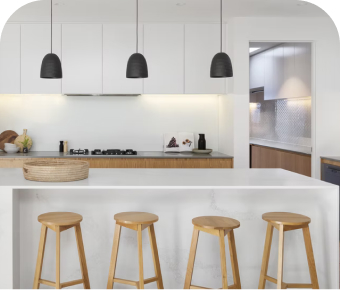
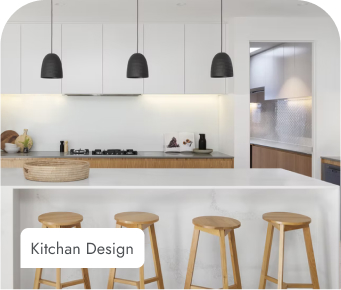
homework 2 finished

diff --git a/homework/project/script.js b/homework/project/script.js
@@ -2,42 +2,42 @@ new Vue({
     el: "#app",
     data: {
         articles: [{
+                isDark: false,
                 url: "img/article1.jpg",
-                alt: 'Kitchen',
-                desc: 'Kitchan Design',
+                alt: 'Kitchan Design',
                 subheading: 'Let’s Get Solution For Building Construction Work',
                 date: '26 December,2022',
             },
             {
+                isDark: true,
                 url: "img/article2.jpg",
-                alt: 'Flat',
-                desc: 'Living Design',
+                alt: 'Living Design',
                 subheading: `Low Cost Latest Invented Interior Designing Ideas.`,
                 date: '22 December,2022',
             }, {
+                isDark: false,
                 url: "img/article3.jpg",
-                alt: 'KiInteriortchen',
-                desc: 'Interior Design',
+                alt: 'Interior Design',
                 subheading: 'Best For Any Office &Business Interior Solution',
                 date: '25 December,2022',
             }, {
-                url: "img/article1.jpg",
-                alt: 'Kitchen',
-                desc: 'Kitchan Design',
+                isDark: false,
+                url: "img/article4.jpg",
+                alt: 'Kitchan Design',
                 subheading: 'Let’s Get Solution For Building Construction Work',
                 date: '26 December,2022',
             }, {
-                url: "img/article1.jpg",
-                alt: 'Kitchen',
-                desc: 'Kitchan Design',
-                subheading: 'Let’s Get Solution For Building Construction Work',
-                date: '26 December,2022',
+                isDark: false,
+                url: "img/article5.jpg",
+                alt: 'Living Design',
+                subheading: 'Low Cost Latest Invented Interior Designing Ideas.',
+                date: '22 December,2022',
             }, {
-                url: "img/article1.jpg",
-                alt: 'Kitchen',
-                desc: 'Kitchan Design',
-                subheading: 'Let’s Get Solution For Building Construction Work',
-                date: '26 December,2022',
+                isDark: false,
+                url: "img/article6.jpg",
+                alt: 'Interior Design',
+                subheading: 'Best For Any Office & Business Interior Solution',
+                date: '25 December,2022',
             }
         ]
     },

diff --git a/homework/project/index.html b/homework/project/index.html
@@ -129,7 +129,6 @@
             <div class="articles__wrapper">
                 <div class="article">
                     <img src="img/article1.jpg" alt="Kitchan" class="img__article">
-                    <p class="desc__article">Kitchan Design</p>
                     <h3 class="subheading subheading__article">Let’s Get Solution For<br>Building Construction<br>Work
                     </h3>
                     <div class="article__wrapper">
@@ -141,7 +140,6 @@
                 </div>
                 <div class="article  article_dark">
                     <img src="img/article2.jpg" alt="Flat" class="img__article">
-                    <p class="desc__article">Living Design</p>
                     <h3 class="subheading subheading__article">Low Cost Latest Invented<br>Interior Designing<br>Ideas.
                     </h3>
                     <div class="article__wrapper">
@@ -157,7 +155,6 @@
                 </div>
                 <div class="article">
                     <img src="img/article3.jpg" alt="Interior" class="img__article">
-                    <p class="desc__article">Interior Design</p>
                     <h3 class="subheading subheading__article">Best For Any Office &<br>Business Interior<br>Solution
                     </h3>
                     <div class="article__wrapper">

diff --git a/homework/project/blog.html b/homework/project/blog.html
@@ -67,7 +67,6 @@
                     <div v-for=" article in articles ">
                         <div class="article ">
                             <img :src="article.url" :alt="article.alt" class="img__article">
-                            <p class=" desc__article ">{{article.desc}}</p>
                             <h3 class="subheading subheading__article ">{{article.subheading}}
                             </h3>
                             <div class="article__wrapper ">
@@ -80,6 +79,14 @@
                     </div>
                 </div>
             </div>
+            <nav>
+                <ul class="pagination">
+                    <li class="pagination__item"><img src="img/1.svg" alt="1"></li>
+                    <li class="pagination__item"><img src="img/2.svg" alt="2"></li>
+                    <li class="pagination__item"><img src="img/3.svg" alt="3"></li>
+                    <li><img src="img/parrow.svg" alt="arrow forward"></li>
+                </ul>
+            </nav>
         </section>
     </main>
     <footer class="footer center ">

diff --git a/homework/project/style.scss b/homework/project/style.scss
@@ -292,6 +292,14 @@ ul {
     text-transform: capitalize;
 }
 
+.pagination {
+    margin-top: 51px;
+    display: flex;
+    gap: 20px;
+    justify-content: center;
+    margin-bottom: 104px;
+}
+
 .footer {
     display: flex;
     gap: 101px;

diff --git a/homework/project/style.css b/homework/project/style.css
@@ -291,6 +291,14 @@ ul {
   text-transform: capitalize;
 }
 
+.pagination {
+  margin-top: 51px;
+  display: flex;
+  gap: 20px;
+  justify-content: center;
+  margin-bottom: 104px;
+}
+
 .footer {
   display: flex;
   gap: 101px;
